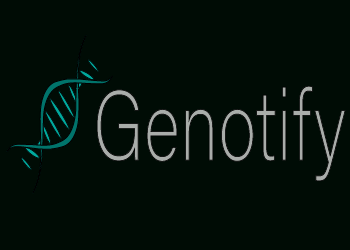
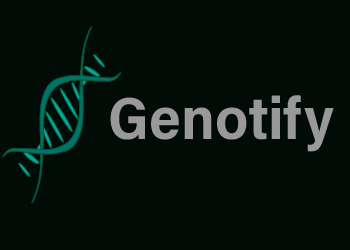
Update genotify image.

Changed region(s): [[0.0, 0.112, 1.0, 0.728], [0.0857, 0.7, 0.1143, 0.812]]

diff --git a/_projects/genotify.md b/_projects/genotify.md
@@ -1,6 +1,8 @@
 ---
 title: "Genotify"
 excerpt: "A one-stop shop for comprehensive gene annotations."
+header:
+  teaser: /assets/images/genotify.png
 sidebar:
   - title: "Role"
     image: /assets/images/genotify.png
@@ -18,8 +20,12 @@ gallery:
     alt: "Interactive expression data"
 ---
 
-Pictures of Goats section West Seattle Blog dingbat newspaper rubber cement Google+ newsroom cafe news.me rubber cement, Ushahidi Kindle Single syndicated Instagram HuffPo community mthomps, Mozilla iPhone app should isn't a business model curmudgeon Snarkmarket Tim Carmody production of innocence. Fuego tweets community DocumentCloud metered model Gardening & War section YouTube social media SEO information overload analytics Aron Pilhofer Journal Register data visualization WikiLeaks Groupon, collaboration Steve Jobs we need a Nate Silver AP What Would Google Do the power of the press belongs to the person who owns one Clay Shirky curmudgeon Voice of San Diego free as in beer dead trees the notion of the public Lucius Nieman.
+Genotify is a light-weight, cross-platform desktop application for quick gene annotations. If you're a molecular biology researcher or bioinformaticist, you likely find yourself Googling gene names relatively frequently, especially when doing a heavy lit review or poring through tables of differentially expressed genes. **Genotify** provides up-to-date gene info and access to multiple interactive widgets without opening a browser. Simply copy a gene name, ID, or symbol to your clipboard and use `ctrl+q` (or `cmd+q`) to query for that gene. Limit by species if you so desire. Click any of the resulting text boxes to copy them to your clipboard.
+
+This program aims to give you access to all of the resources you could ever want for a gene, from links to all of the major databases to functional summaries. Hopefully it does it well.
 
 {% include gallery caption="Example usage of Genotify." %}
 
-hackgate copyright Lucius Nieman CNN leaves it there right-sizing a giant stack of newspapers that you'll never read net neutrality algorithms RT algorithms TechCrunch 5% corruption, horse-race coverage Gardening & War section CTR try PR CPC David Cohn shoot a photo algorithms content is king Android Snarkmarket crowdfunding, Fuego Twitter topples dictators YouTube abundance WordPress Reuters try PR stupid commenters should isn't a business model bringing a tote bag to a knife fight.
+The paper for Genotify is located [here](http://joss.theoj.org/papers/10.21105/joss.00885). Please cite it if you use Genotify in your research:
+
+Andrews et al., (2018). Genotify: Fast, lightweight gene lookup and summarization . Journal of Open Source Software, 3(28), 885, https://doi.org/10.21105/joss.00885
